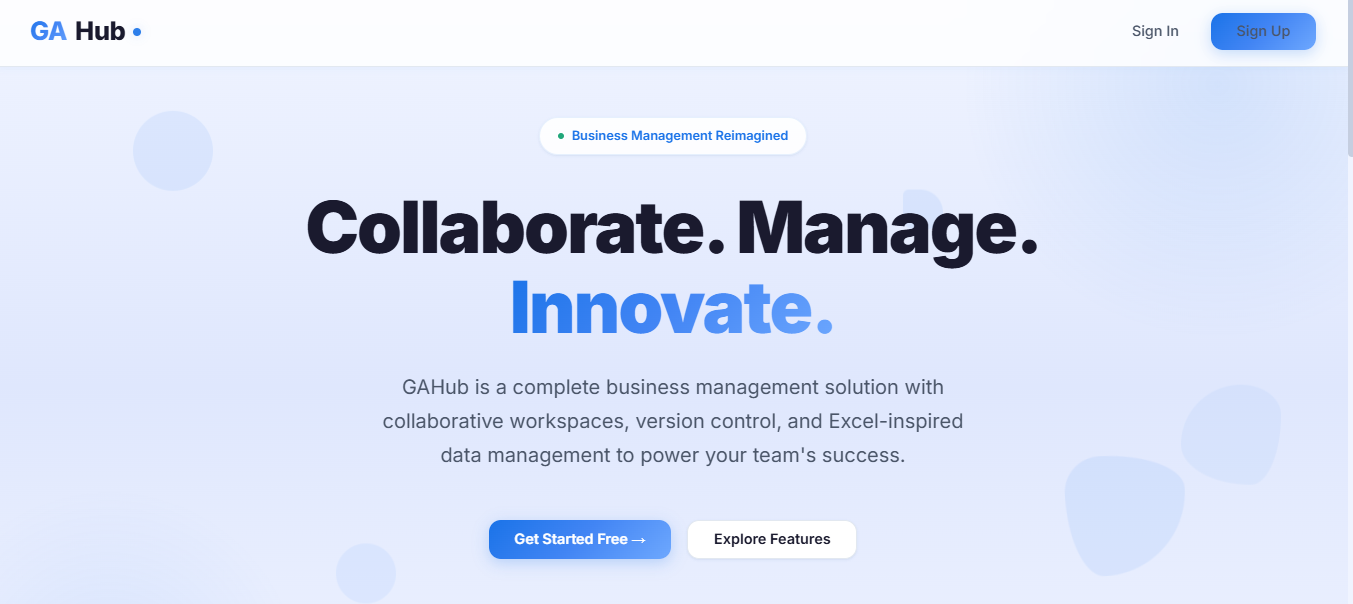
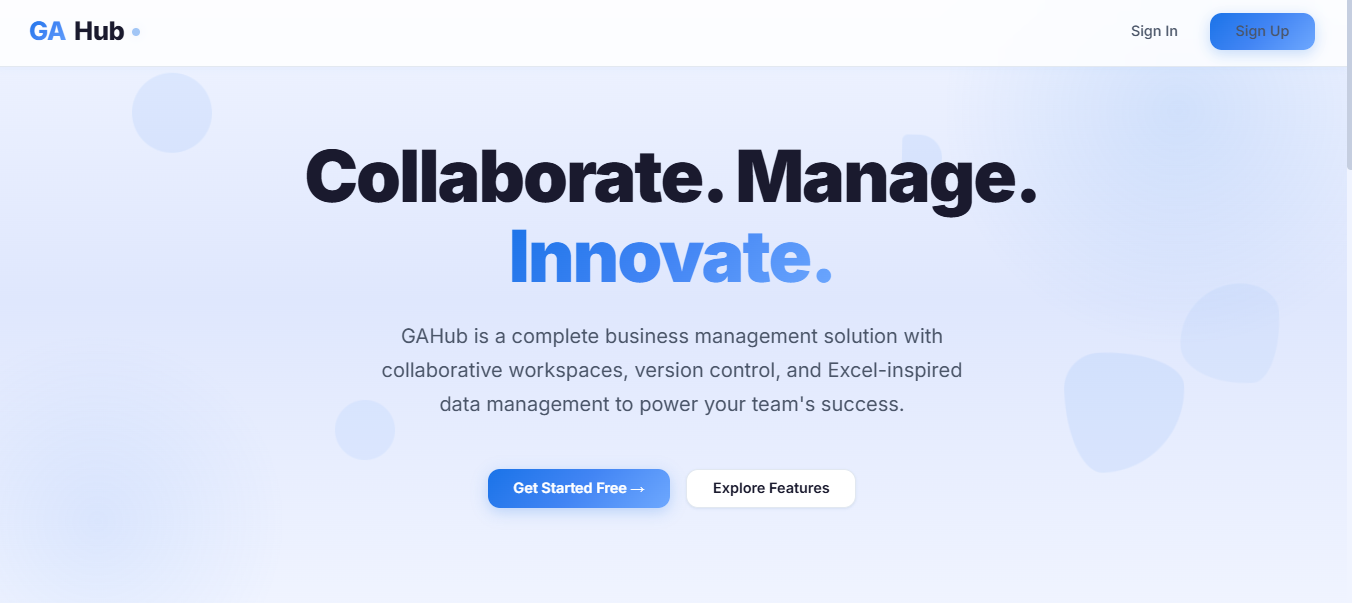
Fix last errors

diff --git a/static/js/app.js b/static/js/app.js
@@ -65,6 +65,101 @@ function showToast(msg, type = 'info') {
     }, 3500);
 }
 
+/**
+ * Custom-styled confirmation dialog (replaces confirm()).
+ * @param {string} message - The confirmation message.
+ * @returns {Promise<boolean>} - Resolves to true if confirmed, false otherwise.
+ */
+function customConfirm(message) {
+    return new Promise((resolve) => {
+        const modalId = 'custom-confirm-modal';
+        
+        // Remove existing modal to prevent duplicate IDs stacking in the DOM
+        const existingModal = document.getElementById(modalId);
+        if (existingModal) existingModal.remove();
+
+        const modalHTML = `
+            <div class="modal-overlay" id="${modalId}">
+                <div class="modal">
+                    <h2>Confirm</h2>
+                    <p>${message}</p>
+                    <div class="modal-actions">
+                        <button class="btn btn-ghost" id="${modalId}-cancel">Cancel</button>
+                        <button class="btn btn-primary" id="${modalId}-confirm">Confirm</button>
+                    </div>
+                </div>
+            </div>
+        `;
+        
+        document.body.insertAdjacentHTML('beforeend', modalHTML);
+        
+        // Grab the buttons and attach event listeners inside the Promise scope
+        const cancelBtn = document.getElementById(`${modalId}-cancel`);
+        const confirmBtn = document.getElementById(`${modalId}-confirm`);
+
+        cancelBtn.addEventListener('click', () => {
+            closeModal(modalId);
+            resolve(false);
+        });
+
+        confirmBtn.addEventListener('click', () => {
+            closeModal(modalId);
+            resolve(true);
+        });
+
+        openModal(modalId);
+    });
+}
+
+/**
+ * Custom-styled prompt dialog (replaces prompt()).
+ * @param {string} message - The prompt message.
+ * @param {string} [defaultValue=""] - The default value for the input.
+ * @returns {Promise<string|null>} - Resolves to the input value or null if canceled.
+ */
+function customPrompt(message, defaultValue = '') {
+    return new Promise((resolve) => {
+        const modalId = 'custom-prompt-modal';
+        
+        const existingModal = document.getElementById(modalId);
+        if (existingModal) existingModal.remove();
+
+        const modalHTML = `
+            <div class="modal-overlay" id="${modalId}">
+                <div class="modal">
+                    <h2>Input Required</h2>
+                    <p>${message}</p>
+                    <div class="form-group">
+                        <input type="text" id="${modalId}-input" class="form-control" value="${defaultValue}">
+                    </div>
+                    <div class="modal-actions">
+                        <button class="btn btn-ghost" id="${modalId}-cancel">Cancel</button>
+                        <button class="btn btn-primary" id="${modalId}-submit">Submit</button>
+                    </div>
+                </div>
+            </div>
+        `;
+        
+        document.body.insertAdjacentHTML('beforeend', modalHTML);
+        
+        const cancelBtn = document.getElementById(`${modalId}-cancel`);
+        const submitBtn = document.getElementById(`${modalId}-submit`);
+        const inputField = document.getElementById(`${modalId}-input`);
+
+        cancelBtn.addEventListener('click', () => {
+            closeModal(modalId);
+            resolve(null);
+        });
+
+        submitBtn.addEventListener('click', () => {
+            closeModal(modalId);
+            resolve(inputField.value.trim());
+        });
+
+        openModal(modalId);
+    });
+}
+
 // ============================================
 // API Helper
 // ============================================
@@ -232,9 +327,11 @@ async function createProject() {
 }
 
 function confirmDeleteProject(id) {
-    if (confirm('Are you sure you want to delete this project?')) {
-        deleteProject(id);
-    }
+    customConfirm('Are you sure you want to delete this project?').then((confirmed) => {
+        if (confirmed) {
+            deleteProject(id);
+        }
+    });
 }
 
 async function deleteProject(id) {
@@ -384,8 +481,18 @@ async function addCollaborator() {
     }
 }
 
+function confirmDeleteProject(id) {
+    customConfirm('Are you sure you want to delete this project?').then((confirmed) => {
+        if (confirmed) {
+            deleteProject(id);
+        }
+    });
+}
+
 async function removeCollaborator(id) {
-    if (!confirm('Remove this collaborator?')) return;
+    const confirmed = await customConfirm('Remove this collaborator?');
+    if (!confirmed) return;
+    
     try {
         await api(`/api/collaborators/${id}`, 'DELETE');
         showToast('Collaborator removed', 'success');
@@ -469,7 +576,9 @@ async function createSpreadsheet() {
 }
 
 async function deleteSpreadsheet(id) {
-    if (!confirm('Delete this spreadsheet?')) return;
+    const confirmed = await customConfirm('Delete this spreadsheet?');
+    if (!confirmed) return;
+    
     try {
         await api(`/api/spreadsheets/${id}`, 'DELETE');
         showToast('Spreadsheet deleted', 'success');

diff --git a/templates/landing.html b/templates/landing.html
@@ -13,11 +13,6 @@
         <div class="floating-shape"></div>
     </div>
 
-    <div class="hero-badge">
-        <span class="badge-dot"></span>
-        Business Management Reimagined
-    </div>
-
     <h1 class="hero-title">
         Collaborate. Manage.<br><span class="text-gradient">Innovate.</span>
     </h1>
@@ -34,22 +29,6 @@
         <a href="#features" class="btn btn-secondary">
             Explore Features
         </a>
-    </div>
-
-    <!-- Stats Counter -->
-    <div class="stats-counter">
-        <div class="stat-item">
-            <div class="stat-number">500+</div>
-            <div class="stat-label">Active Users</div>
-        </div>
-        <div class="stat-item">
-            <div class="stat-number">1,200+</div>
-            <div class="stat-label">Projects Created</div>
-        </div>
-        <div class="stat-item">
-            <div class="stat-number">99.9%</div>
-            <div class="stat-label">Uptime</div>
-        </div>
     </div>
 </section>
 

diff --git a/static/css/style.css b/static/css/style.css
@@ -1328,6 +1328,11 @@ textarea.form-control {
     color: var(--text-primary);
 }
 
+.modal p {
+    margin-bottom: var(--spacing-lg);
+    color: var(--text-secondary);
+}
+
 .modal-actions {
     display: flex;
     gap: var(--spacing-sm);
